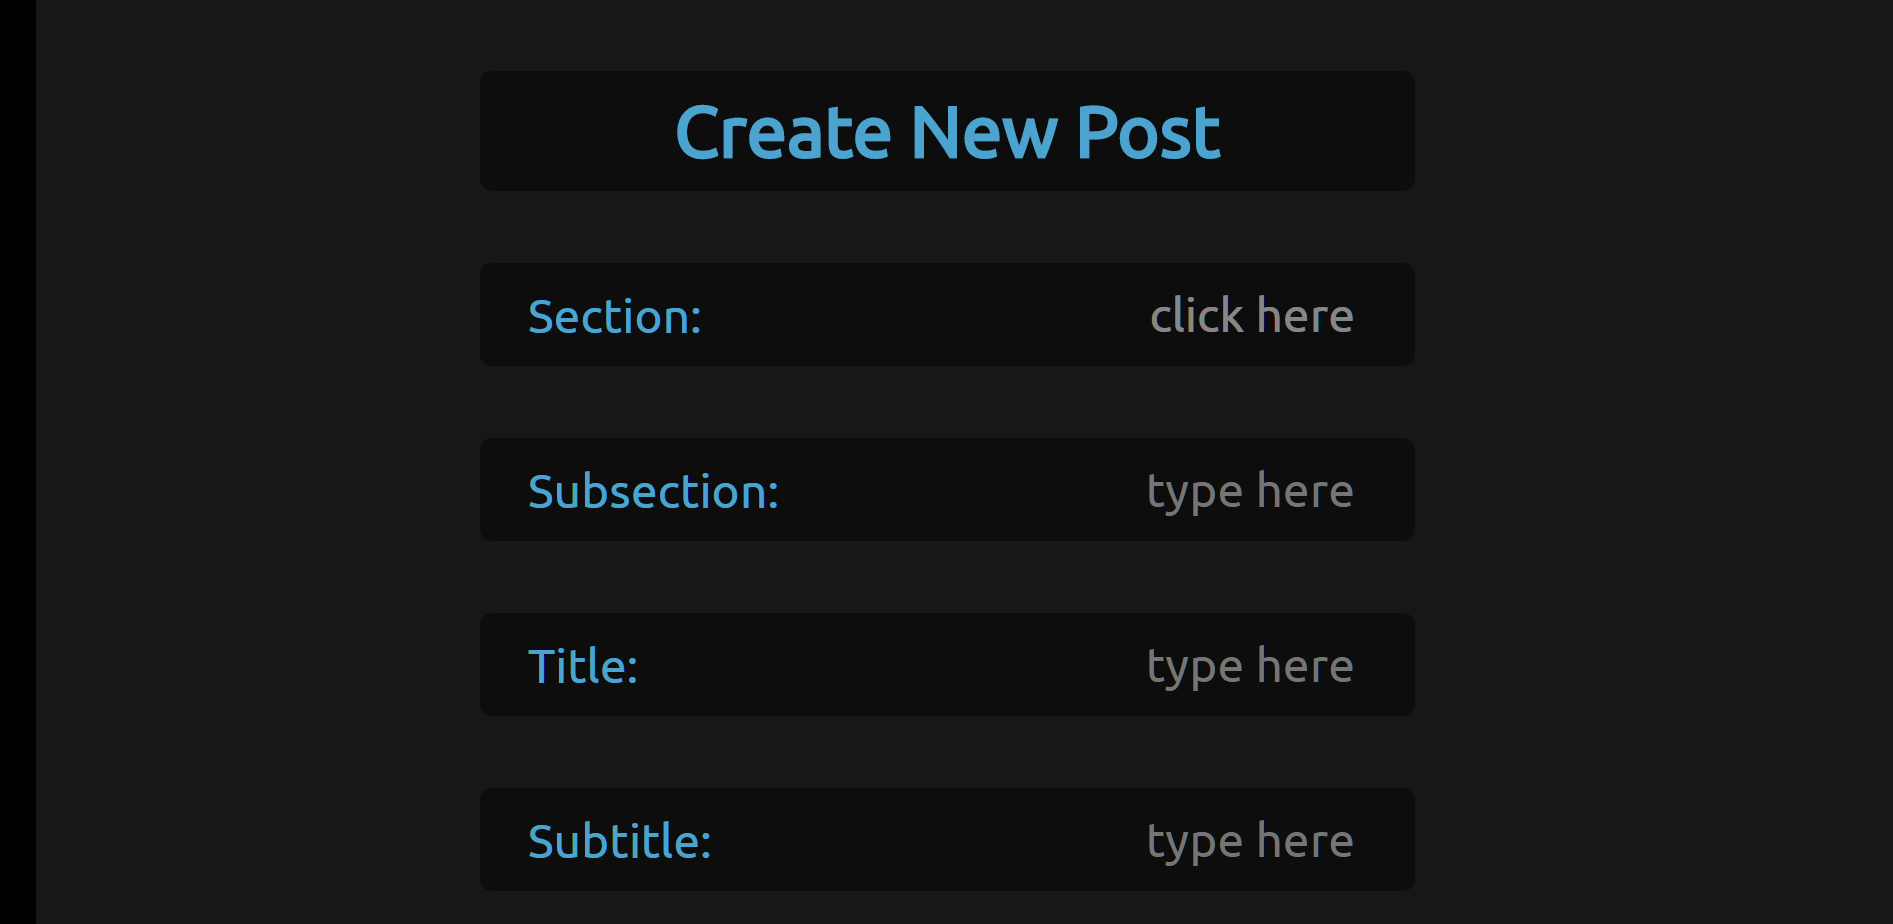
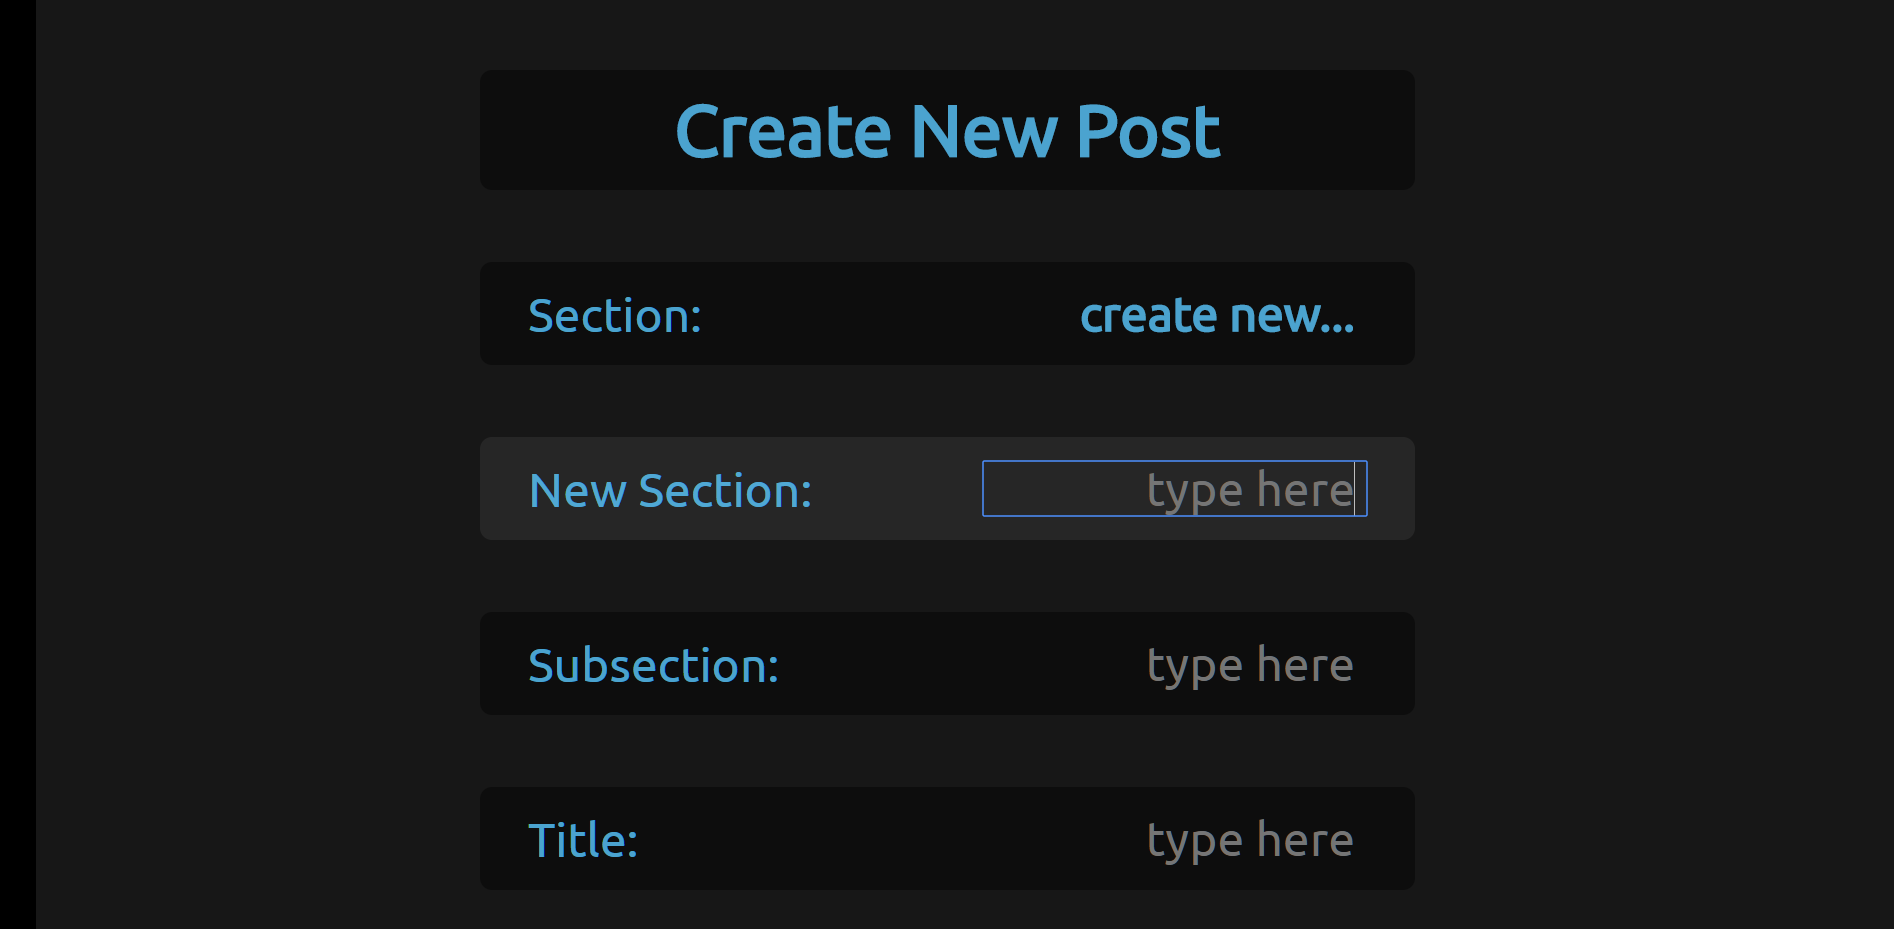
added descriptions and updated some images

diff --git a/README.md b/README.md
@@ -17,8 +17,10 @@ Live at  >>>  http://personalproject.thomaslowry.me
 ## Landing Page:
 
 <p align="center">
-    <img src="https://github.com/Tommydreamer57/personal-project/blob/master/src/assets/Landing Page.PNG" width="700">
+    <img src="https://github.com/Tommydreamer57/personal-project/blob/master/src/assets/Welcome Page.PNG" width="700">
 </p>
+
+Users may log in to save their favorites, or they may continue without logging in, just to view the site.
 
 ## Home Page:
 
@@ -26,11 +28,17 @@ Live at  >>>  http://personalproject.thomaslowry.me
     <img src="https://github.com/Tommydreamer57/personal-project/blob/master/src/assets/Home Page.PNG" width="700">
 </p>
 
+All posts are visible at the home page organized into sections.
+Click on a section to view it individually.
+Click on a post to view the entire post.
+
 ## Section Page:
 
 <p align="center">
     <img src="https://github.com/Tommydreamer57/personal-project/blob/master/src/assets/Section Page.PNG" width="700">
 </p>
+
+The section page displays only the posts in the selected section.
 
 ## Post Page:
 
@@ -38,11 +46,17 @@ Live at  >>>  http://personalproject.thomaslowry.me
     <img src="https://github.com/Tommydreamer57/personal-project/blob/master/src/assets/Post Page.PNG" width="700">
 </p>
 
+The post page displays the entire post.
+Users may click the blue heart button to add the post as a favorite.
+Admins may click the 'Edit Post' button to edit the post.
+
 ### Comment Box:
 
 <p align="center">
     <img src="https://github.com/Tommydreamer57/personal-project/blob/master/src/assets/Comment Box.PNG" width="700">
 </p>
+
+Users may comment directly on the post or respond to other users' comments.
 
 ## Admin Page:
 
@@ -50,11 +64,17 @@ Live at  >>>  http://personalproject.thomaslowry.me
     <img src="https://github.com/Tommydreamer57/personal-project/blob/master/src/assets/Admin Page.PNG" width="700">
 </p>
 
+On the admin page, all posts are visible, including unpublished posts. Unpublished posts have a slightly darker background.
+Click the 'Create Post' button to go to the create page.
+
 ## Create Page:
 
 <p align="center">
     <img src="https://github.com/Tommydreamer57/personal-project/blob/master/src/assets/Create Page.PNG" width="700">
 </p>
+
+An admin may select a section from all currently existing sections, or they may create a new section.
+They also input a subsection, title, and subtitle for their post.
 
 ## Edit Page:
 
@@ -62,12 +82,27 @@ Live at  >>>  http://personalproject.thomaslowry.me
     <img src="https://github.com/Tommydreamer57/personal-project/blob/master/src/assets/Edit Page.PNG" width="700">
 </p>
 
+On the edit page an admin may update the section, subsection, title, and subtitle of their post.
+
+Here they may also edit the body of their post. The text-editor is created by a library called SlateJS (https://docs.slatejs.org). My text editor in this app supports **bold** text (CTRL + B), _italic_ text (CTRL + I), and `code blocks` (CTRL + ~).
+
 <p align="center">
     <img src="https://github.com/Tommydreamer57/personal-project/blob/master/src/assets/Edit Page - Bottom.PNG" width="700">
 </p>
+
+Click 'Save' to save changes to the post, and click 'Preview Post' to view the published post.
 
 ## Preview Page:
 
 <p align="center">
     <img src="https://github.com/Tommydreamer57/personal-project/blob/master/src/assets/Preview Page.PNG" width="700">
 </p>
+
+The preview page lets an admin know that a post has not been published yet.
+
+<p align="center">
+    <img src="https://github.com/Tommydreamer57/personal-project/blob/master/src/assets/Preview Page - Bottom.PNG" width="700">
+</p>
+
+Click the 'Publish' button to publish the post.
+Click the 'Go to Editor' button to make further changes to the post before publishing.
